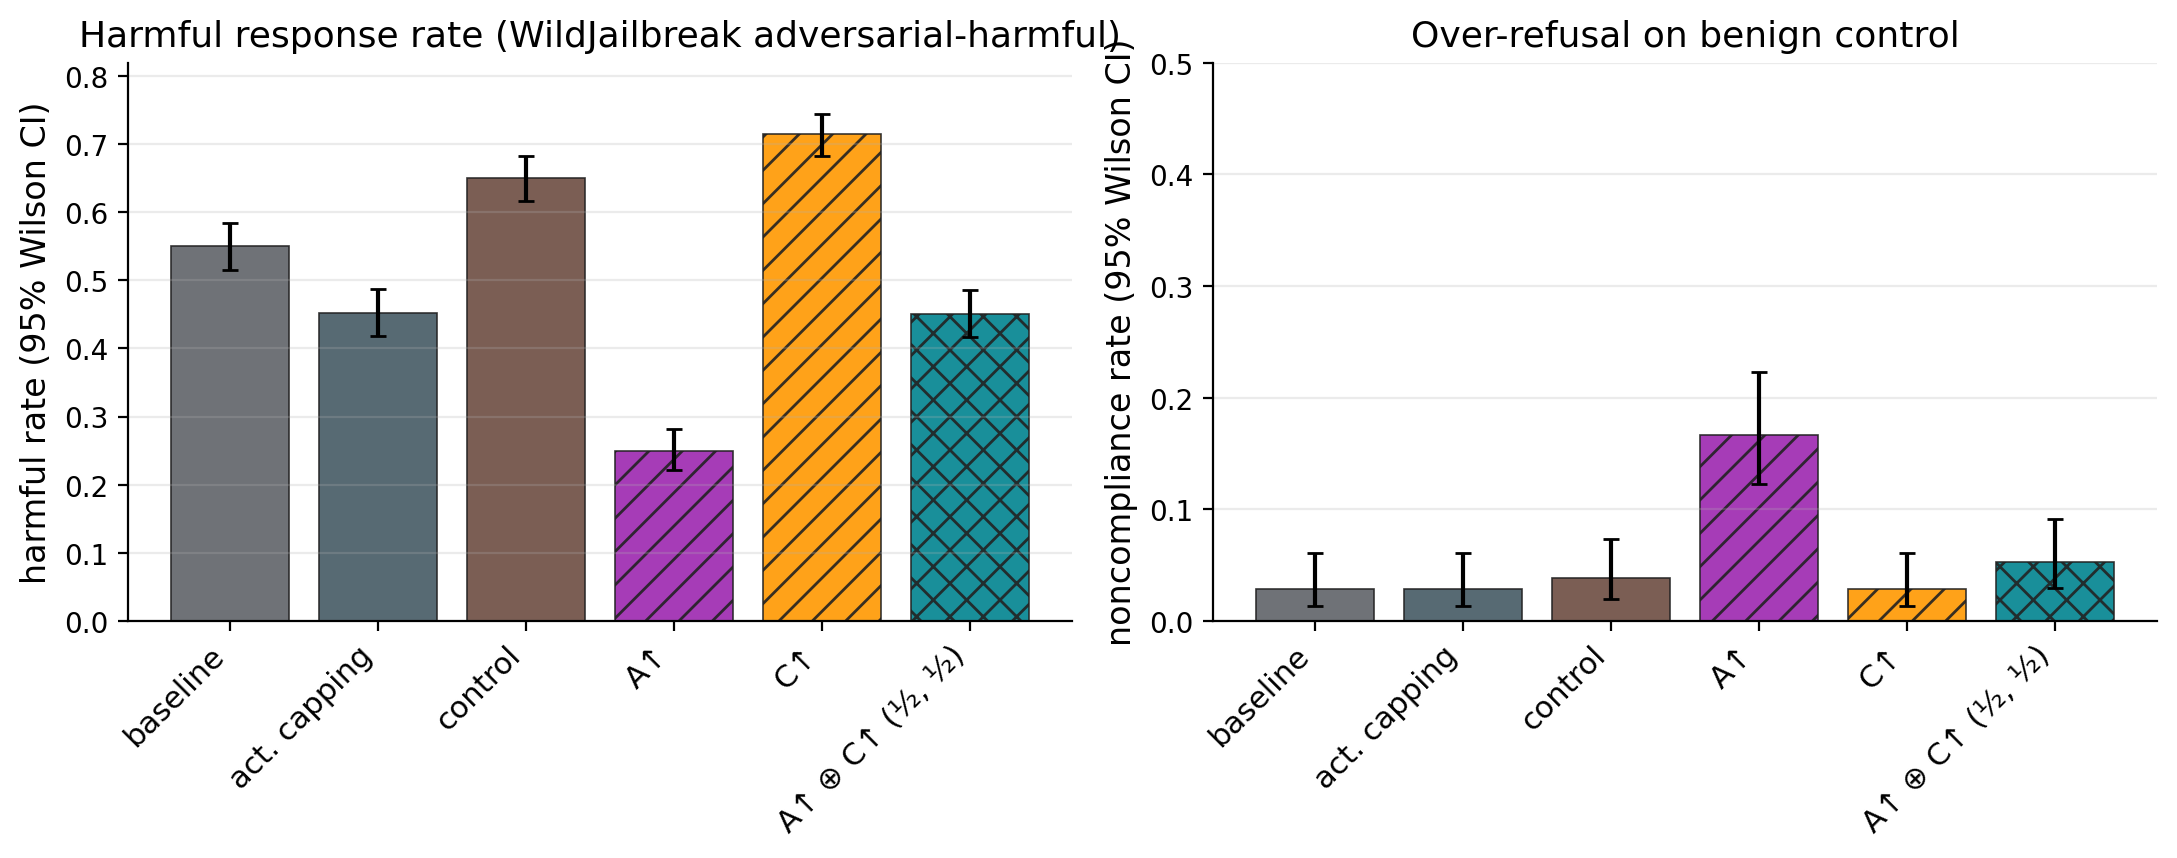
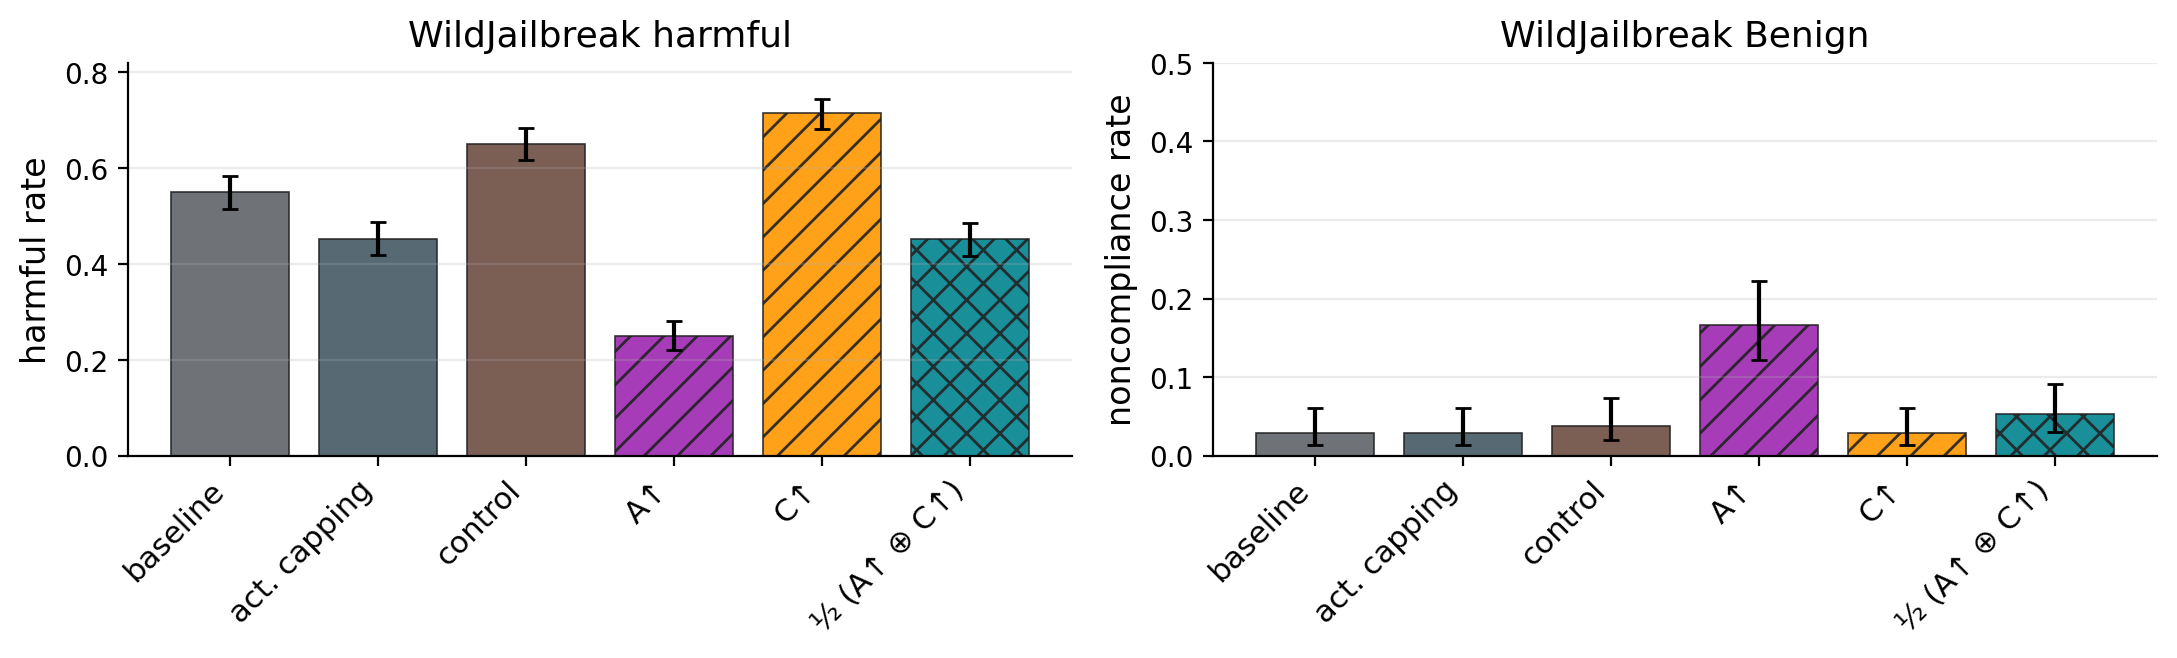
sid/paper-updates-1-20260506 polish WJ persona-drift figure labels
Title/ylabel cleanup, ½(A↑⊕C↑) soup label, shorter panel height.

diff --git a/src_dev/visualisations/paper_wj_persona_drift.py b/src_dev/visualisations/paper_wj_persona_drift.py
@@ -90,7 +90,7 @@ CONDITION_LABEL: dict[str, str] = {
     "lora_soup_n_minus_1.0":              "N↓",
     "lora_soup_control_latest_1.0":       "control",
     "lora_soup_control_legacy_1.0":       "control (legacy)",
-    "lora_soup_a_plus_0.5_c_plus_0.5":    "A↑ ⊕ C↑ (½, ½)",
+    "lora_soup_a_plus_0.5_c_plus_0.5":    "½ (A↑ ⊕ C↑)",
     "lora_soup_a_plus_1.0_c_plus_1.0":    "A↑ ⊕ C↑ (1, 1)",
     "lora_soup_a_plus_1.0_c_plus_0.5":    "A↑ ⊕ C↑ (1, ½)",
     "lora_soup_c_plus_0.5_o_minus_0.5":   "C↑ ⊕ O↓ (½, ½)",
@@ -246,13 +246,13 @@ def _make_figure(
     fig, axes = plt.subplots(1, 2, figsize=(width, height), squeeze=False)
     _bar_panel(
         axes[0, 0], harm_rates,
-        title="Harmful response rate (WildJailbreak adversarial-harmful)",
-        ylabel="harmful rate (95% Wilson CI)",
+        title="WildJailbreak harmful",
+        ylabel="harmful rate",
     )
     _bar_panel(
         axes[0, 1], bnign_rates,
-        title="Over-refusal on benign control",
-        ylabel="noncompliance rate (95% Wilson CI)",
+        title="WildJailbreak Benign",
+        ylabel="noncompliance rate",
     )
 
     fig.tight_layout()
@@ -292,7 +292,7 @@ PRESETS: dict[str, Preset] = {
             "main/fig_3_wj_persona_drift.pdf",
             "main/fig_3_wj_persona_drift.png",
         ],
-        width=11.0, height=4.4,
+        width=11.0, height=3.4,
     ),
     "appendix": Preset(
         name="appendix",
@@ -310,7 +310,7 @@ PRESETS: dict[str, Preset] = {
             "appendix/fig_F_wj_persona_drift_full.pdf",
             "appendix/fig_F_wj_persona_drift_full.png",
         ],
-        width=14.0, height=4.6,
+        width=14.0, height=3.6,
     ),
 }
 

diff --git a/src_dev/visualisations/paper_main_fig1_banner.py b/src_dev/visualisations/paper_main_fig1_banner.py
@@ -395,7 +395,7 @@ def main() -> None:
         (box_x0 + box_x1) / 2.0, title_y,
         "Trait-modifying LoRAs",
         ha="center", va="center",
-        fontsize=FS_TITLE + 2,
+        fontsize=FS_TITLE,
         # fontweight="bold",
     )
 